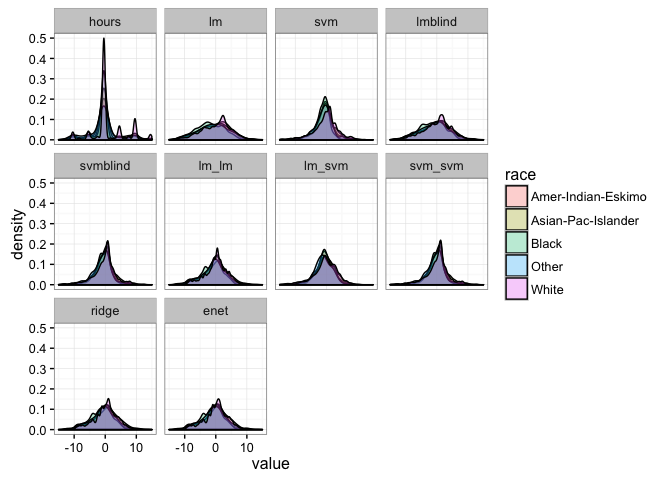
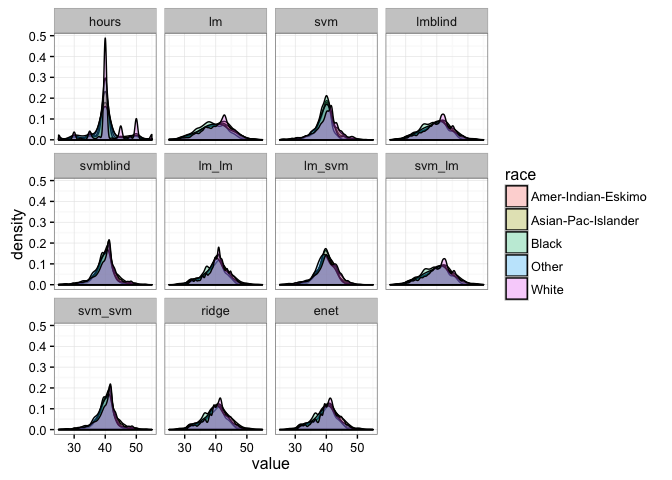
can't remember what I changed

diff --git a/adult.md b/adult.md
@@ -16,7 +16,8 @@ names(adult) <- c("age", "workclass", "fnlwgt", "education", "educationnum",
 adult$fnlwght <- NULL # Survey weights -- for generalization
 data <- adult[,c("workclass", "occupation", "education", "educationnum",
                  "nativecountry", "race", "sex", "age")]
-data$hours <- adult$hoursperweek - mean(adult$hoursperweek)
+meanhours <- mean(adult$hoursperweek)
+data$hours <- adult$hoursperweek
 res <- "hours"
 prot <- c("sex", "race")
 output <- data[,c(prot, res)]
@@ -32,7 +33,7 @@ t(head(data))[,1:3]
     ## race          "White"         "White"            "White"            
     ## sex           "Male"          "Male"             "Male"             
     ## age           "39"            "50"               "38"               
-    ## hours         " -0.4374559"   "-27.4374559"      " -0.4374559"
+    ## hours         "40"            "13"               "40"
 
 Imbalances in the data
 ----------------------
@@ -44,23 +45,23 @@ data %>% group_by(sex) %>% summarise(count = n(), hours = mean(hours))
 ```
 
     ## # A tibble: 2 × 3
-    ##      sex count     hours
-    ##   <fctr> <int>     <dbl>
-    ## 1 Female 10771 -4.027095
-    ## 2   Male 21790  1.990630
+    ##      sex count    hours
+    ##   <fctr> <int>    <dbl>
+    ## 1 Female 10771 36.41036
+    ## 2   Male 21790 42.42809
 
 ``` r
 data %>% group_by(race) %>% summarise(count = n(), hours = mean(hours))
 ```
 
     ## # A tibble: 5 × 3
-    ##                 race count      hours
-    ##               <fctr> <int>      <dbl>
-    ## 1 Amer-Indian-Eskimo   311 -0.3892243
-    ## 2 Asian-Pac-Islander  1039 -0.3104106
-    ## 3              Black  3124 -2.0146005
-    ## 4              Other   271 -0.9688212
-    ## 5              White 27816  0.2516439
+    ##                 race count    hours
+    ##               <fctr> <int>    <dbl>
+    ## 1 Amer-Indian-Eskimo   311 40.04823
+    ## 2 Asian-Pac-Islander  1039 40.12705
+    ## 3              Black  3124 38.42286
+    ## 4              Other   271 39.46863
+    ## 5              White 27816 40.68910
 
 Distribution plot.
 
@@ -69,6 +70,10 @@ ggplot(data, aes(hours, linetype = sex)) + geom_density() + theme_bw()
 ```
 
 ![](adult_files/figure-markdown_github/unnamed-chunk-3-1.png)
+
+``` r
+data$hours <- adult$hoursperweek - meanhours
+```
 
 ### Linear regression
 
@@ -105,6 +110,9 @@ output$lm_lm <- predict(lm.lm)
 lm.svm <- fairpred_2s(data, res, prot, method1 = "lm", method2 = "svm")
 output$lm_svm <- predict(lm.svm)
 
+svm.lm <- fairpred_2s(data, res, prot, method1 = "svm", method2 = "lm")
+output$svm_lm <- predict(svm.lm)
+
 svm.svm <- fairpred_2s(data, res, prot, method1 = "svm", method2 = "svm")
 output$svm_svm <- predict(svm.svm)
 ```
@@ -124,40 +132,42 @@ output$enet <- enet$predictions
 Subgroup means.
 
 ``` r
+output <- output %>% mutate_if(is.numeric, funs(. + meanhours))
+
 output %>% group_by(sex) %>%
   summarise_if(.predicate = function(v) is.numeric(v), .funs = funs("mean"))
 ```
 
-    ## # A tibble: 2 × 11
-    ##      sex     hours        lm        svm    lmblind   svmblind     lm_lm
-    ##   <fctr>     <dbl>     <dbl>      <dbl>      <dbl>      <dbl>     <dbl>
-    ## 1 Female -4.027095 -4.027095 -2.4677566 -1.8926245 -1.3309116 -1.051789
-    ## 2   Male  1.990630  1.990630  0.8956853  0.9355419  0.3334879  0.519909
-    ##       lm_svm    svm_svm      ridge       enet
-    ##        <dbl>      <dbl>      <dbl>      <dbl>
-    ## 1 -0.6505907 -0.8938784 -1.3009829 -1.2661855
-    ## 2 -0.1176753  0.7332874  0.6493479  0.6309354
+    ## # A tibble: 2 × 12
+    ##      sex    hours       lm      svm  lmblind svmblind    lm_lm   lm_svm
+    ##   <fctr>    <dbl>    <dbl>    <dbl>    <dbl>    <dbl>    <dbl>    <dbl>
+    ## 1 Female 36.41036 36.41036 37.96970 38.54483 39.10654 39.38567 39.78687
+    ## 2   Male 42.42809 42.42809 41.33314 41.37300 40.77094 40.95736 40.31978
+    ##     svm_lm  svm_svm    ridge     enet
+    ##      <dbl>    <dbl>    <dbl>    <dbl>
+    ## 1 38.98489 39.54358 39.15736 39.17757
+    ## 2 41.77291 41.17074 41.07569 41.06574
 
 ``` r
 output %>% group_by(race) %>%
   summarise_if(.predicate = function(v) is.numeric(v), .funs = funs("mean"))
 ```
 
-    ## # A tibble: 5 × 11
-    ##                 race      hours         lm        svm     lmblind
-    ##               <fctr>      <dbl>      <dbl>      <dbl>       <dbl>
-    ## 1 Amer-Indian-Eskimo -0.3892243 -0.3892243 -0.7839648 -0.72201882
-    ## 2 Asian-Pac-Islander -0.3104106 -0.3104106 -0.4641845 -0.02226774
-    ## 3              Black -2.0146005 -2.0146005 -1.4239083 -1.66195280
-    ## 4              Other -0.9688212 -0.9688212 -1.0280113 -0.91267360
-    ## 5              White  0.2516439  0.2516439 -0.0578891  0.20444921
-    ##     svmblind      lm_lm     lm_svm    svm_svm      ridge       enet
-    ##        <dbl>      <dbl>      <dbl>      <dbl>      <dbl>      <dbl>
-    ## 1 -0.5915895 -0.7462379 -0.7713912 -0.1803027 -0.7315935 -0.7261415
-    ## 2 -0.1473600  0.1353432 -0.1970486  0.2762852  0.3391198  0.2872531
-    ## 3 -0.9815879 -1.2287411 -0.8127852 -0.5535697 -1.3936080 -1.3706516
-    ## 4 -1.0182687 -0.7303799 -1.1332688 -0.6016333 -0.7959558 -0.7857669
-    ## 5 -0.1218372  0.1484030 -0.2257968  0.2880276  0.1646865  0.1629361
+    ## # A tibble: 5 × 12
+    ##                 race    hours       lm      svm  lmblind svmblind    lm_lm
+    ##               <fctr>    <dbl>    <dbl>    <dbl>    <dbl>    <dbl>    <dbl>
+    ## 1 Amer-Indian-Eskimo 40.04823 40.04823 39.65349 39.71544 39.84587 39.69122
+    ## 2 Asian-Pac-Islander 40.12705 40.12705 39.97327 40.41519 40.29010 40.57280
+    ## 3              Black 38.42286 38.42286 39.01355 38.77550 39.45587 39.20871
+    ## 4              Other 39.46863 39.46863 39.40944 39.52478 39.41919 39.70708
+    ## 5              White 40.68910 40.68910 40.37957 40.64191 40.31562 40.58586
+    ##     lm_svm   svm_lm  svm_svm    ridge     enet
+    ##      <dbl>    <dbl>    <dbl>    <dbl>    <dbl>
+    ## 1 39.66606 40.12912 40.25715 39.71402 39.71136
+    ## 2 40.24041 40.82300 40.71374 40.77430 40.72481
+    ## 3 39.62467 39.20687 39.88389 39.06084 39.07105
+    ## 4 39.30419 39.94273 39.83582 39.63989 39.65129
+    ## 5 40.21166 41.05321 40.72548 40.59963 40.60028
 
 Distribution plots.
 
@@ -167,24 +177,21 @@ pd <- melt(output)
 
     ## Using sex, race as id variables
 
-    ## Warning: attributes are not identical across measure variables; they will
-    ## be dropped
-
 ``` r
 ggplot(pd, aes(value, fill = sex)) + geom_density(alpha = .3) +
-  facet_wrap(~variable) + xlim(-15, 15) + theme_bw()
+  facet_wrap(~variable) + xlim(25, 55) + theme_bw()
 ```
 
-    ## Warning: Removed 6944 rows containing non-finite values (stat_density).
+    ## Warning: Removed 6204 rows containing non-finite values (stat_density).
 
 ![](adult_files/figure-markdown_github/unnamed-chunk-9-1.png)
 
 ``` r
 ggplot(pd, aes(value, fill = race)) + geom_density(alpha = .3) +
-  facet_wrap(~variable) + xlim(-15, 15) + theme_bw()
+  facet_wrap(~variable) + xlim(25, 55) + theme_bw()
 ```
 
-    ## Warning: Removed 6944 rows containing non-finite values (stat_density).
+    ## Warning: Removed 6204 rows containing non-finite values (stat_density).
 
 ![](adult_files/figure-markdown_github/unnamed-chunk-9-2.png)
 
@@ -192,13 +199,13 @@ ggplot(pd, aes(value, fill = race)) + geom_density(alpha = .3) +
 
 ``` r
 outputMSE <- data.frame((output$hours - output[,4:ncol(output)])^2)
-outputMSE$const <- output$hours^2
+outputMSE$const <- (output$hours-meanhours)^2
 outputMSE %>% summarise_all("mean")
 ```
 
-    ##         lm      svm  lmblind svmblind    lm_lm   lm_svm  svm_svm    ridge
-    ## 1 129.6325 121.8658 132.4799  124.644 134.1809 127.4479 124.7834 133.3288
-    ##       enet    const
-    ## 1 133.4789 152.4543
+    ##         lm      svm  lmblind svmblind    lm_lm   lm_svm   svm_lm  svm_svm
+    ## 1 129.6325 121.8658 132.4799  124.644 134.1809 127.4479 132.6524 124.7834
+    ##      ridge    enet    const
+    ## 1 133.4019 133.505 152.4543
 
 Lichman, M. 2013. “UCI Machine Learning Repository.” University of California, Irvine, School of Information; Computer Sciences. <http://archive.ics.uci.edu/ml>.

diff --git a/sf.md b/sf.md
@@ -7,28 +7,14 @@ Data
 From the [NYC Stop and Frisk dataset](http://www.nyclu.org/content/stop-and-frisk-data) (“NYC Stop and Frisk Data” 2014).
 
 ``` r
-data <- read.csv("2014_stop_and_frisk.csv", strip.white = TRUE, header = TRUE)
-# only use part of the data because of NAs, then remove NAs
-data <- data[,which(apply(data, 2, function(col) mean(is.na(col))) < .1)]
-data$year <- NULL
-data$linecm <- NULL
-data$dob <- NULL
-data$datestop <- NULL
-data$repcmd <- NULL
-data$revcmd <- NULL
-faccols <- which(apply(data, 2, function(col) length(unique(col))) < 10)
-for (col in faccols) data[,col] <- factor(data[,col])
-stringcols <- which(sapply(data[1,], function(v) is.factor(v) & nlevels(v) > 10))
-data <- data[,-stringcols]
-data <- data[complete.cases(data),]
-data$pct <- factor(data$pct)
-data$race <- fct_recode(factor(data$race),
-                        Black = "1", BlaskHisp = "2", Hispanic = "3",
-                        White = "4", AsianPacI = "5", NativeAm = "6")
-data$arstmade <- as.numeric(data$arstmade)
+source("load_stopandfrisk.R")
+data <- stopandfrisk
+data$arstmade <- as.numeric(data$arstmade) -1
 meanarst <- mean(data$arstmade)
 data$arstmade <- data$arstmade - meanarst
 output <- data[,c("race", "sex", "arstmade")]
+res <- "arstmade"
+prot <- c("race", "sex")
 t(head(data))[,1:3]
 ```
 
@@ -36,15 +22,15 @@ t(head(data))[,1:3]
     ## pct      "67"         "7"          "84"        
     ## ser_num  "15"         "26"         "52"        
     ## timestop "2330"       "1530"       "2100"      
-    ## city     "2"          "1"          "2"         
-    ## sex      "1"          "1"          "1"         
+    ## city     "Brooklyn"   "Manhattan"  "Brooklyn"  
+    ## sex      "Male"       "Male"       "Male"      
     ## race     "Black"      "Black"      "Black"     
     ## age      "18"         "31"         "16"        
     ## height   "67"         "67"         "68"        
     ## weight   "150"        "160"        "160"       
     ## haircolr "1"          "1"          "1"         
     ## eyecolor "2"          "2"          "2"         
-    ## build    "3"          "3"          "4"         
+    ## build    "medium"     "medium"     "thin"      
     ## frisked  "1"          "1"          "1"         
     ## searched "0"          "1"          "0"         
     ## contrabn "0"          "0"          "0"         
@@ -75,18 +61,18 @@ Imbalances in the data
 Average outcomes by race.
 
 ``` r
-data %>% group_by(race) %>% summarise(count = n(), arstmade = mean(arstmade))
+data %>% group_by(race) %>% summarise(count = n(), arstmade = meanarst + mean(arstmade))
 ```
 
     ## # A tibble: 6 × 3
-    ##        race count     arstmade
-    ##      <fctr> <int>        <dbl>
-    ## 1     Black 22690 -0.007967363
-    ## 2 BlaskHisp  2583  0.057161313
-    ## 3  Hispanic  8994  0.032611974
-    ## 4     White  4952 -0.028126283
-    ## 5 AsianPacI  2136 -0.050855343
-    ## 6  NativeAm   180 -0.068177441
+    ##        race count   arstmade
+    ##      <fctr> <int>      <dbl>
+    ## 1     Black 22690 0.14354341
+    ## 2 BlaskHisp  2583 0.20867209
+    ## 3  Hispanic  8994 0.18412275
+    ## 4     White  4952 0.12338449
+    ## 5 AsianPacI  2136 0.10065543
+    ## 6  NativeAm   180 0.08333333
 
 ### Linear regression
 
@@ -102,7 +88,7 @@ output$predlm <- predict(model.lm)
 Outcomes are only slightly less biased.
 
 ``` r
-lm.blind <- fairpred_blind(data, "arstmade", "race", method = "lm")
+lm.blind <- fairpred_blind(data, res, prot, method = "lm")
 output$lmblind <- predict(lm.blind)
 ```
 
@@ -111,8 +97,18 @@ output$lmblind <- predict(lm.blind)
 Greedily enforces fairness first, then builds predictions.
 
 ``` r
-lm.lm <- fairpred_2s(data, "arstmade", "race", method1 = "lm", method2 = "lm")
+lm.lm <- fairpred_2s(data, res, prot, method1 = "lm", method2 = "lm")
 output$lm_lm <- predict(lm.lm)
+```
+
+### Penalizing unprotected coefficients
+
+``` r
+ridge <- fairpred_pen(data, res, prot, alpha = 0)
+output$ridge <- ridge$predictions
+
+enet <- fairpred_pen(data, res, prot, alpha = .5)
+output$enet <- enet$predictions
 ```
 
 ### Comparing imbalance
@@ -120,19 +116,27 @@ output$lm_lm <- predict(lm.lm)
 Subgroup means.
 
 ``` r
-output[,c("race","predlm","lmblind","lm_lm")] %>% group_by(race) %>%
-  summarise_if(.predicate = function(v) is.numeric(v), .funs = funs("mean"))
+output <- output %>% mutate_if(is.numeric, funs(. + meanarst))
+output %>% group_by(race) %>% summarise_if(is.numeric, .funs = funs("mean"))
 ```
 
-    ## # A tibble: 6 × 4
-    ##        race       predlm     lmblind        lm_lm
-    ##      <fctr>        <dbl>       <dbl>        <dbl>
-    ## 1     Black -0.007967363 -0.00452223 -0.003489031
-    ## 2 BlaskHisp  0.057161313  0.03666435  0.028189535
-    ## 3  Hispanic  0.032611974  0.02761223  0.022224578
-    ## 4     White -0.028126283 -0.02536995 -0.018604398
-    ## 5 AsianPacI -0.050855343 -0.04882569 -0.042881614
-    ## 6  NativeAm -0.068177441 -0.05841880 -0.054506670
+    ## # A tibble: 6 × 7
+    ##        race   arstmade     predlm   lmblind      lm_lm      ridge
+    ##      <fctr>      <dbl>      <dbl>     <dbl>      <dbl>      <dbl>
+    ## 1     Black 0.14354341 0.14354341 0.1467821 0.14841448 0.14845422
+    ## 2 BlaskHisp 0.20867209 0.20867209 0.1886599 0.17958017 0.18567063
+    ## 3  Hispanic 0.18412275 0.18412275 0.1796708 0.17293324 0.17636902
+    ## 4     White 0.12338449 0.12338449 0.1253887 0.13238283 0.12505270
+    ## 5 AsianPacI 0.10065543 0.10065543 0.1037288 0.10918656 0.10281529
+    ## 6  NativeAm 0.08333333 0.08333333 0.0930949 0.09708883 0.09455743
+    ##         enet
+    ##        <dbl>
+    ## 1 0.14859789
+    ## 2 0.18609810
+    ## 3 0.17671427
+    ## 4 0.12368634
+    ## 5 0.10323532
+    ## 6 0.09423189
 
 Distribution plots.
 
@@ -147,18 +151,18 @@ ggplot(pd, aes(value, fill = sex)) + geom_density(alpha = .3) +
   facet_wrap(~variable) + xlim(-.5, 1) + theme_bw()
 ```
 
-    ## Warning: Removed 525 rows containing non-finite values (stat_density).
+    ## Warning: Removed 1923 rows containing non-finite values (stat_density).
 
-![](sf_files/figure-markdown_github/unnamed-chunk-7-1.png)
+![](sf_files/figure-markdown_github/unnamed-chunk-8-1.png)
 
 ``` r
 ggplot(pd, aes(value, fill = race)) + geom_density(alpha = .3) +
   facet_wrap(~variable) + xlim(-.5, 1) + theme_bw()
 ```
 
-    ## Warning: Removed 525 rows containing non-finite values (stat_density).
+    ## Warning: Removed 1923 rows containing non-finite values (stat_density).
 
-![](sf_files/figure-markdown_github/unnamed-chunk-7-2.png)
+![](sf_files/figure-markdown_github/unnamed-chunk-8-2.png)
 
 ### Comparing (in-sample) mean-squared prediction error
 
@@ -168,7 +172,7 @@ outputMSE$const <- output$arstmade^2
 outputMSE %>% summarise_all("mean")
 ```
 
-    ##       predlm    lmblind     lm_lm     const
-    ## 1 0.07490494 0.07495154 0.0750636 0.1285553
+    ##       predlm   lmblind      lm_lm      ridge       enet     const
+    ## 1 0.07490494 0.0750383 0.07523581 0.07514535 0.07510581 0.1515108
 
 “NYC Stop and Frisk Data.” 2014. NYCLU. <http://www.nyclu.org/content/stop-and-frisk-data>.
